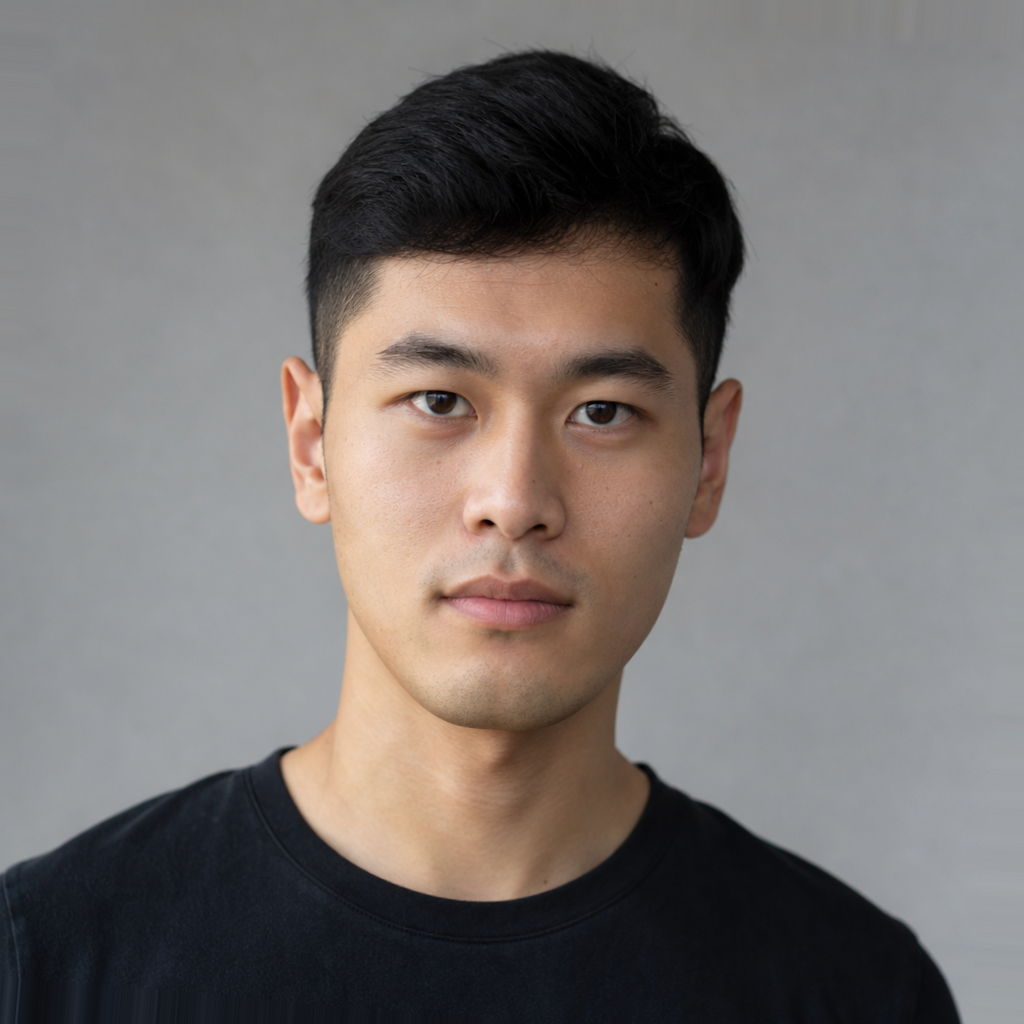
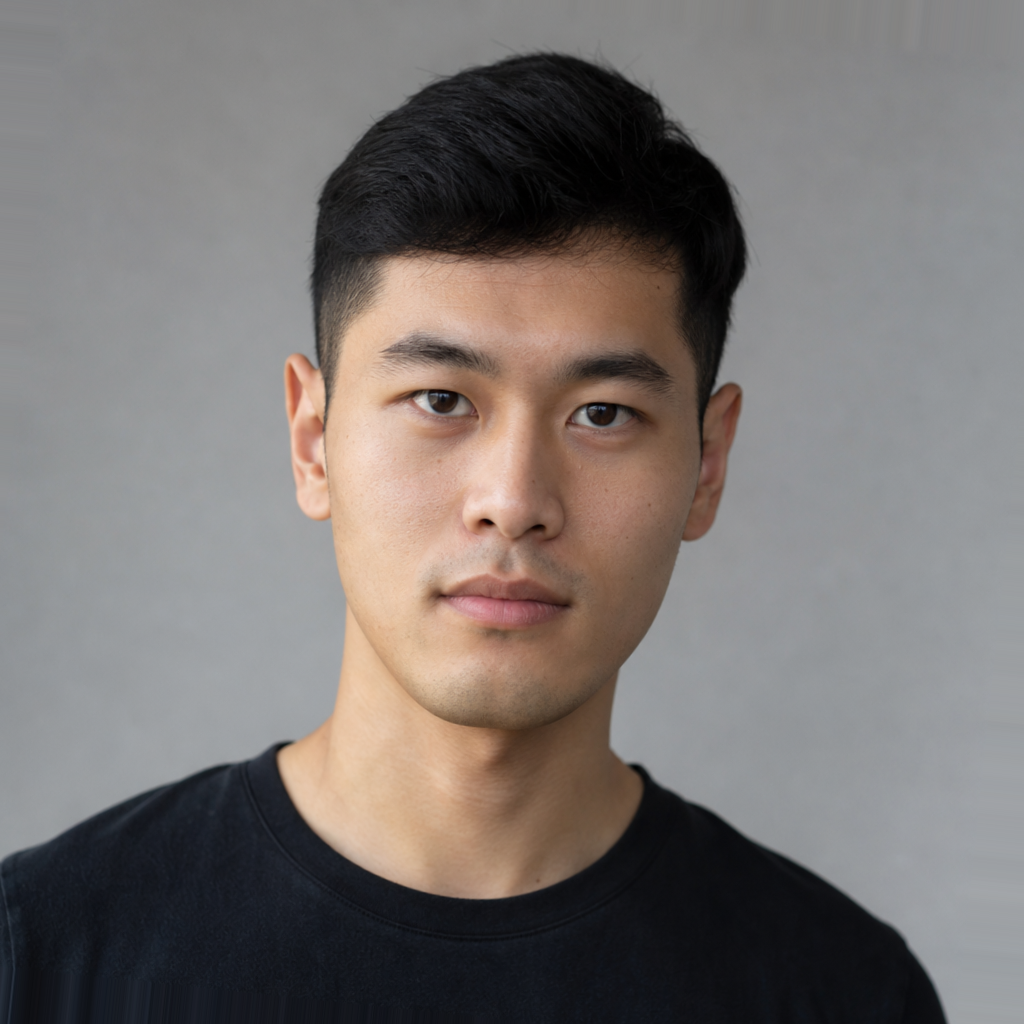
自迭代 · patch _proto25d_c.py

diff --git a/_proto25d_c.py b/_proto25d_c.py
@@ -28,9 +28,16 @@ z_span = float(np.percentile(z_in, 98) - np.percentile(z_in, 2))
 print("脸中心 (%.0f,%.0f) 宽 %.0f 高 %.0f  深度中位 %.1f 跨度 %.1f"
       % (cx, cy, face_w, face_h, z0, z_span))
 
-# 深度 -> 像素的换算：深度跨度对应脸宽的一半（鼻尖到耳后 ≈ 半脸宽）
+# 深度(模型单位) -> 像素 的换算。
+# BFM 正视图 UV 的 x 跨度实测 0.699，×120 = 83.9 个模型单位，正好铺满 face_w 像素，
+# 所以 k_px = face_w / 83.9。位移(px) = Δz * k_px * sin(角度)。
+# ⚠ 第一版写成 face_w*0.5/z_span（≈4.6），漏了 k_px 这一步，位移不到 1px，
+#   导致 gain 从 0.38 调到 0.85 像素差纹丝不动（3.76 → 3.76）。
 GAIN = float(sys.argv[1]) if len(sys.argv) > 1 else 0.38
-SCALE = (face_w * 0.5) / max(z_span, 1e-6) * GAIN
+K_PX = face_w / 83.9
+SCALE = z_span * K_PX * GAIN
+print("K_PX=%.2f SCALE=%.1f  最大位移≈%.1f px"
+      % (K_PX, SCALE, SCALE * np.sin(np.deg2rad(14))))
 zn = np.clip((depth - z0) / max(z_span, 1e-6), -1.0, 1.0)
 
 # 位移权重：脸内为 1，向外 30px 渐变到 0（避免脖子/肩膀撕裂）
